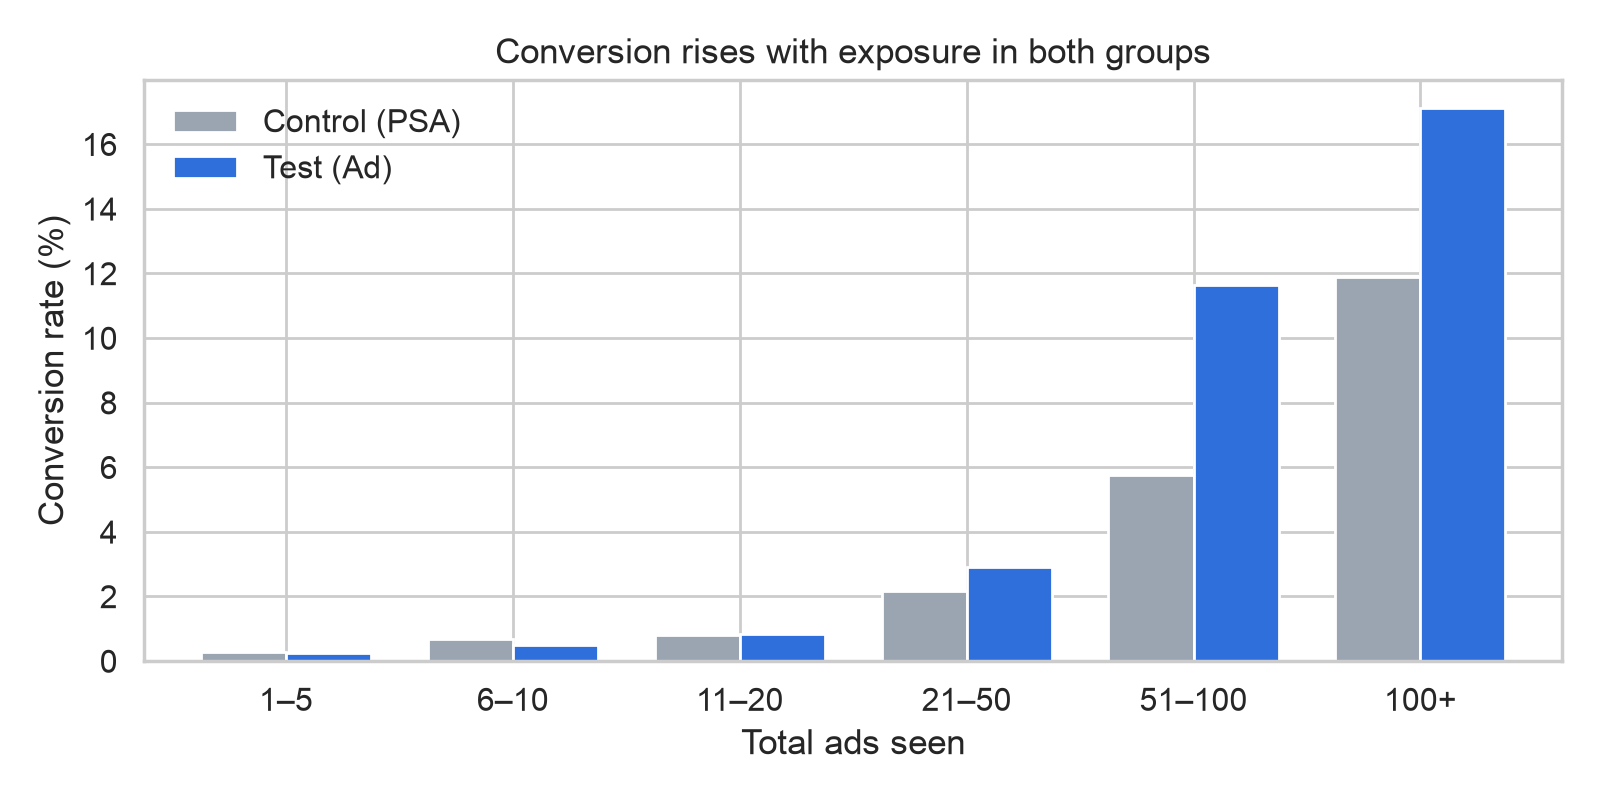
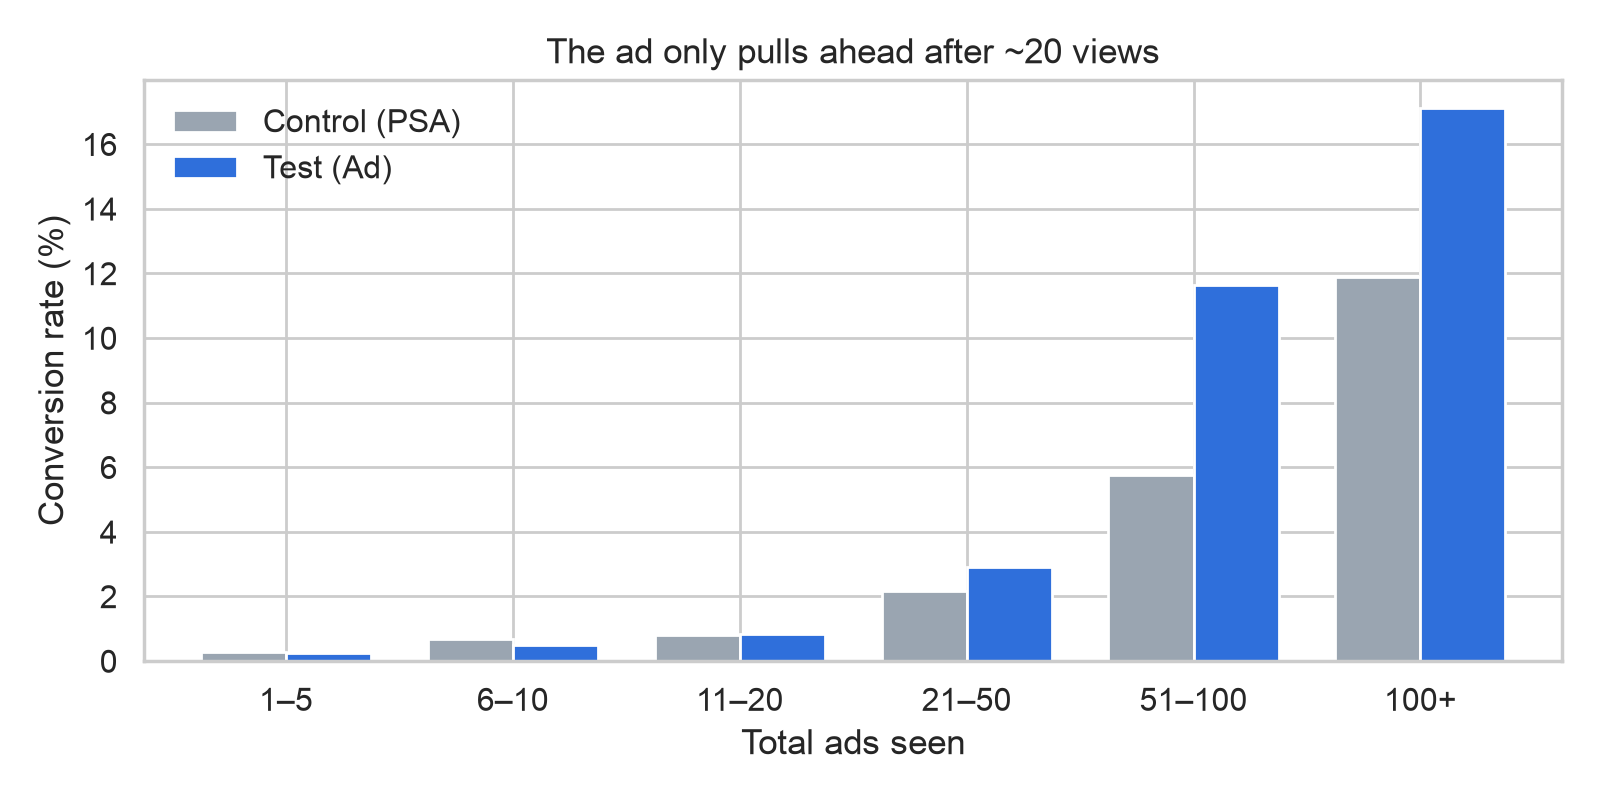
Update project card with decision-first summary

Changed region(s): [[0.3125, 0.0312, 0.75, 0.0938]]

diff --git a/index.html b/index.html
@@ -110,11 +110,11 @@ footer{margin:96px 0 40px;padding-top:20px;border-top:1.5px solid var(--ink);dis
 /* ── Add a new project: append one object to this list. ── */
 const PROJECTS = [
   {
-    title: "Did the ad campaign actually work?",
-    result: "A/B test on 588k users: the ad lifted conversion by <b>+43%</b> (p < 0.0001), but only for users who saw it many times.",
+    title: "Should we keep paying for this ad campaign?",
+    result: "A/B test on 588k users: the ad drives <b>+43%</b> purchases and likely pays for itself, but ~21% of impressions show no lift. Recommendation: keep funding, test frequency.",
     thumb: "assets/ab-testing-thumb.png",
     url: "https://kubrabozan.github.io/ab-testing-marketing-campaign/",
-    tags: ["Python", "A/B testing", "Hypothesis testing", "Bayesian", "Bootstrap"],
+    tags: ["Python", "A/B testing", "Hypothesis testing", "Business case", "Bayesian"],
   },
 ];
 
